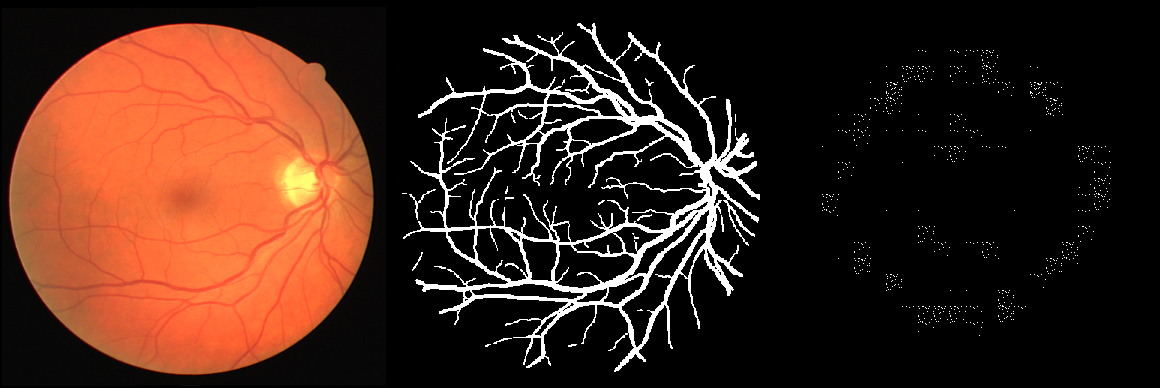
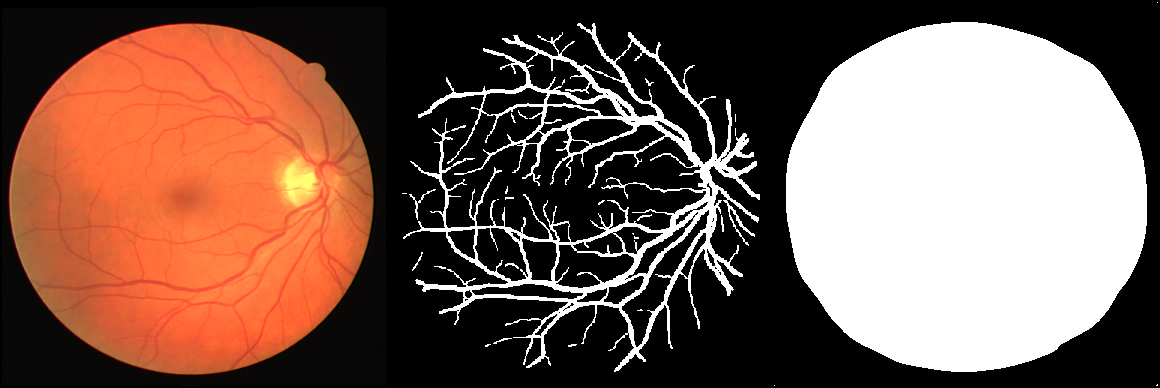
Started developing the downstream part of the project! Results are still not that great, as it is just differentiating between the fundus and the image and not the vessel and everything else. Working on it at the moment. Changed embed-dim to 384. The encoder is showing great results with an average 

Changed region(s): [[0.6517, 0.0309, 0.9931, 0.9588]]

diff --git a/train_segmentation.py b/train_segmentation.py
@@ -12,13 +12,14 @@ import torch
 import torch.nn as n
 import torch.nn.functional as f 
 from torchvision.utils import save_image
+from model import *
 
 if __name__ == '__main__':
     parser = argparse.ArgumentParser()
     parser.add_argument('--seed',type=int,default=42)
     parser.add_argument('--batch_size', type=int, default=4)
     parser.add_argument('--patch_size',type=int,default=16)
-    parser.add_argument('--base_learning_rate',type=float,default=1e-5)
+    parser.add_argument('--base_learning_rate',type=float,default=1e-4)
     parser.add_argument('--max_epochs',type=int,default=300)
     parser.add_argument('--model_path',type=str,default='bestmodel.pt')
 
@@ -40,11 +41,6 @@ if __name__ == '__main__':
     for p in model.encoder.parameters():
         p.requires_grad = False
 
-    # Changing the decoder head
-    patch_size = args.patch_size
-    decoder_dim = model.decoder.head.in_features
-
-    model.decoder.head = n.Linear(decoder_dim, patch_size * patch_size * 1).to(device) # Gives single channel patch grid
         
     def dice_loss(pred,truth,eps=1e-6):
         i=(pred*truth).sum(dim=(2,3))
@@ -53,43 +49,48 @@ if __name__ == '__main__':
         return 1 - dice.mean()
     
     def dice_score(pred,truth,eps=1e-6):
-        pred_bin = (pred>0.5).float()
-        i = (pred_bin*truth).sum(dim=(2,3))
-        u = pred_bin.sum(dim=(2,3)) + truth.sum(dim=(2,3))
+        i = (pred*truth).sum(dim=(2,3))
+        u = pred.sum(dim=(2,3)) + truth.sum(dim=(2,3))
         dice = (2 * i + eps) / (u + eps)
         return dice.mean().item()
     
     def iou_score(pred,target,eps=1e-6):
-        pred_bin = (pred>0.5).float()
-        i = (pred_bin*target).sum(dim=(2,3))
-        u = pred_bin.sum(dim=(2,3)) + target.sum(dim=(2,3))
+        i = (pred*target).sum(dim=(2,3))
+        u = pred.sum(dim=(2,3)) + target.sum(dim=(2,3))
         iou = (i + eps) / (u + eps)
         return iou.mean().item()
 
     # Training Loop
 
-    criterion = n.BCEWithLogitsLoss()
-    optim = torch.optim.AdamW([p for p in model.parameters() if p.requires_grad],lr=args.base_learning_rate)
+    seg_model = MAESegmenation(model)
+    seg_model.to(device)
+
+    pos_weight = torch.tensor([5.0], device=device)
+    criterion = n.BCEWithLogitsLoss(pos_weight=pos_weight)
+    optim = torch.optim.AdamW([p for p in seg_model.parameters() if p.requires_grad],lr=args.base_learning_rate)
     scheduler = torch.optim.lr_scheduler.StepLR(optim, step_size=50, gamma=0.1)
 
     best_loss = float('inf')
     best_model_path = 'segmentation_best.pt'
 
     for epoch in range(args.max_epochs):
-        model.train()
+        seg_model.train()
         running_loss = 0.0
         losses=[]
         for i,(img,mask) in enumerate(tqdm(training_dataloader, desc='Epoch {}/{}'.format(epoch+1,args.max_epochs))):
             imgs = img.to(device)
-            masks = (mask>0).unsqueeze(1).float().to(device)
+            masks = (mask>0).float()
+            if masks.ndim == 3:
+                masks = masks.unsqueeze(1)
+            masks = masks.to(device)
 
-            logits, _ = model(imgs)
+            logits = seg_model(imgs)
             bce = criterion(logits,masks)
 
             probs = torch.sigmoid(logits)
             dl = dice_loss(probs,masks)
 
-            loss = 0.5 * bce + 0.5 * dl 
+            loss = 0.3 * bce + 0.7 * dl 
             
             optim.zero_grad()
             loss.backward()
@@ -102,26 +103,33 @@ if __name__ == '__main__':
         avg_loss = running_loss/len(training_dataloader)
         if avg_loss < best_loss:
             best_loss = avg_loss
-            torch.save(model.state_dict(), best_model_path)
+            torch.save(seg_model.state_dict(), best_model_path)
             print(f"> New best model saved at epoch {epoch+1} with loss {best_loss:.6f}")
 
         scheduler.step()
 
+
     with torch.no_grad():
         state_dict = torch.load(best_model_path,map_location=device)
-        model.load_state_dict(state_dict)
-        model.to(device)
-        model.eval()
+        seg_model.load_state_dict(state_dict=state_dict)
+        seg_model.to(device)
+        seg_model.eval()
+
         os.makedirs('segmentation_vis',exist_ok=True)
         dices = []
         ious = []
         for i, (img,mask) in enumerate(test_dataloader):
             imgs = img.to(device)
-            masks = (mask>0.5).unsqueeze(1).float().to(device)
+            masks = (mask>0).float().to(device)
 
-            logits, _ = model(imgs)
+            logits = seg_model(imgs)
 
             probs = torch.sigmoid(logits)
+
+            print(
+            f"Batch {i} probs stats -> min: {probs.min().item():.4f}, "
+            f"max: {probs.max().item():.4f}, mean: {probs.mean().item():.4f}"
+            )
 
                         # Visualize first few test samples
             if i < 5:
@@ -129,7 +137,7 @@ if __name__ == '__main__':
                 img_vis = imgs[0].detach().cpu()
                 gt_mask = masks[0].detach().cpu()
                 pred_prob = probs[0].detach().cpu()
-                pred_bin = (pred_prob > 0.5).float()
+                pred_bin = (pred_prob > 0.15).float()
 
                 # Unnormalize image from [-1,1] to [0,1] if using mean=0.5,std=0.5
                 img_vis = (img_vis * 0.5 + 0.5).clamp(0, 1)
@@ -151,5 +159,7 @@ if __name__ == '__main__':
 
         mean_dice = sum(dices)/len(dices)
         mean_ious = sum(ious)/len(ious)
+
+        print("Logits stats -> min:", logits.min().item(), "max:", logits.max().item())
 
         print(f"[BEST] Test Dice: {mean_dice:.4f}, Test IoU: {mean_ious:.4f}")

diff --git a/model.py b/model.py
@@ -25,7 +25,8 @@ class PatchShuffle(torch.nn.Module):
         T, B, C = patches.shape
         remain_T = int(T * (1 - self.ratio))
 
-        forward_indexes, backward_indexes = random_indexes(T,B,torch.device('mps'))
+        device = patches.device
+        forward_indexes, backward_indexes = random_indexes(T,B,device)
 
         patches = take_indexes(patches, forward_indexes)
         patches = patches[:remain_T]
@@ -36,7 +37,7 @@ class MAE_Encoder(torch.nn.Module):
     def __init__(self,
                  image_size=384,
                  patch_size=16,
-                 emb_dim=256,
+                 emb_dim=384,
                  num_layer=8,
                  num_head=8,
                  mask_ratio=0.6,
@@ -73,11 +74,26 @@ class MAE_Encoder(torch.nn.Module):
 
         return features, backward_indexes
 
+    def forward_all_tokens(self,img):
+        patches = self.patchify(img)                           # (B, C, H', W')
+        patches = rearrange(patches, 'b c h w -> (h w) b c')    # (T_FULL, B, C)
+        patches = patches + self.pos_embedding                  # full pos emb
+
+        patches = torch.cat(
+           [self.cls_token.expand(-1, patches.shape[1], -1), patches],
+           dim=0
+        )
+
+        patches = rearrange(patches, 't b c -> b t c')
+        features = self.layer_norm(self.transformer(patches))
+        features = rearrange(features, 'b t c -> t b c')
+        return features
+
 class MAE_Decoder(torch.nn.Module):
     def __init__(self,
                  image_size=384,
                  patch_size=16,
-                 emb_dim=256,
+                 emb_dim=384,
                  num_layer=4,
                  num_head=8,
                  ) -> None:
@@ -122,7 +138,7 @@ class MAE_ViT(torch.nn.Module):
     def __init__(self,
                  image_size=384,
                  patch_size=16,
-                 emb_dim=256,
+                 emb_dim=384,
                  encoder_layer=8,
                  encoder_head=8,
                  decoder_layer=4,
@@ -139,6 +155,74 @@ class MAE_ViT(torch.nn.Module):
         predicted_img, mask = self.decoder(features,  backward_indexes)
         return predicted_img, mask
 
+# making the conv block
+
+class ConvBlock(torch.nn.Module):
+    def __init__(self, in_channels, out_channels):
+        super().__init__()
+        self.block = torch.nn.Sequential(
+            torch.nn.Conv2d(in_channels,out_channels,kernel_size=3,padding=1),
+            torch.nn.BatchNorm2d(out_channels),
+            torch.nn.ReLU(inplace=True),
+            torch.nn.Conv2d(out_channels,out_channels,kernel_size=3,padding=1),
+            torch.nn.BatchNorm2d(out_channels),
+            torch.nn.ReLU(inplace=True)
+        )
+    
+    def forward(self, x):
+        return self.block(x)
+
+
+class MAESegmenation(torch.nn.Module):
+    def __init__(self,
+                 mae_model,
+                 embed_dim=384):
+        super().__init__()
+
+        self.encoder = mae_model.encoder
+
+        for p in self.encoder.parameters():
+            p.requires_grad = False 
+
+        self.dec1 = ConvBlock(embed_dim,256) # 24x24, 384 -> 256
+        self.up1 = torch.nn.Upsample(scale_factor=2, mode='bilinear', align_corners=False) # 24x24->48x48
+        self.dc2 = ConvBlock(256,128) # 48x48 , 256 -> 128
+        self.up2 = torch.nn.Upsample(scale_factor=2,mode='bilinear',align_corners=False) # 96x96
+        self.dc3 = ConvBlock(128,64) # 96x96, 128 -> 64
+        self.up3 = torch.nn.Upsample(scale_factor=2,mode='bilinear',align_corners=False) # 192x192
+        self.dc4 = ConvBlock(64,32) # 192x 192, 64->32
+        self.up4 = torch.nn.Upsample(scale_factor=2, mode='bilinear', align_corners=False) # 192 -> 384
+        self.dc5 = ConvBlock(32,16)
+        self.finalConv = torch.nn.Conv2d(16, 1, kernel_size=1)
+
+    def forward(self, img):
+
+        features = self.encoder.forward_all_tokens(img)
+        _,B,C = features.shape
+        tokens = features[1:] # (576, B, C)
+
+        T_full = tokens.shape[0]
+        H=W= int(T_full ** 0.5)
+
+        tokens = tokens.permute(1,0,2).contiguous() # (B,T,C)
+        tokens = tokens.view(B,H,W,C) # (B,24,24,C)
+        feat_map = tokens.permute(0,3,1,2).contiguous() # (B,C,H,W)
+
+        x = self.dec1(feat_map)
+        x = self.up1(x)
+
+        x = self.dc2(x)
+        x = self.up2(x)
+
+        x = self.dc3(x)
+        x = self.up3(x)
+
+        x = self.dc4(x)
+        x = self.up4(x)
+
+        x = self.dc5(x)
+        logits = self.finalConv(x)
+        return logits
 
 
 if __name__ == '__main__':
@@ -147,7 +231,7 @@ if __name__ == '__main__':
     b, forward_indexes, backward_indexes = shuffle(a)
     print(b.shape)
 
-    img = torch.rand(2, 3, 32, 32)
+    img = torch.rand(2, 3, 384, 384)
     encoder = MAE_Encoder()
     decoder = MAE_Decoder()
     features, backward_indexes = encoder(img)
@@ -155,4 +239,9 @@ if __name__ == '__main__':
     predicted_img, mask = decoder(features, backward_indexes)
     print(predicted_img.shape)
     loss = torch.mean((predicted_img - img) ** 2 * mask / 0.75)
-    print(loss)
+    print(loss.item())
+
+    vit_model = MAE_ViT()
+    model = MAESegmenation(vit_model)
+    logits = model(predicted_img)
+    print(logits.shape)

diff --git a/dataset.py b/dataset.py
@@ -50,7 +50,14 @@ class RetinaDataset(Dataset):
         mask = cv2.imread(mask_path, 0)
         mask = cv2.resize(mask, (384,384), interpolation=cv2.INTER_NEAREST)
         mask = mask/255.0
-        mask = torch.tensor(mask).unsqueeze(0)
+        mask = torch.tensor(mask)
+        if mask.dim() == 2:
+            mask = mask.unsqueeze(0)
+        elif mask.dim() ==3 and mask.shape[0] == 1:
+            pass 
+        elif mask.dim() == 3 and mask.shape[0] > 1:
+            mask = mask[0].unsqueeze(0)
+
 
         transformed = self.transforms(image=img)
         img = transformed['image']

diff --git a/mae_pretrain.py b/mae_pretrain.py
@@ -40,7 +40,7 @@ if __name__ == '__main__':
     writer = SummaryWriter(os.path.join('logs', 'Retina Dataset', 'mae-pretrain'))
     device = torch.device('mps')
 
-    model = torch.load(args.model_path,map_location=device,weights_only=False)
+    model = MAE_ViT()
     model.to(device)
     optim = torch.optim.AdamW(model.parameters(), lr=args.base_learning_rate, weight_decay=0.05)
     lr_scheduler = torch.optim.lr_scheduler.CosineAnnealingLR(optim, T_max=args.total_epoch)
